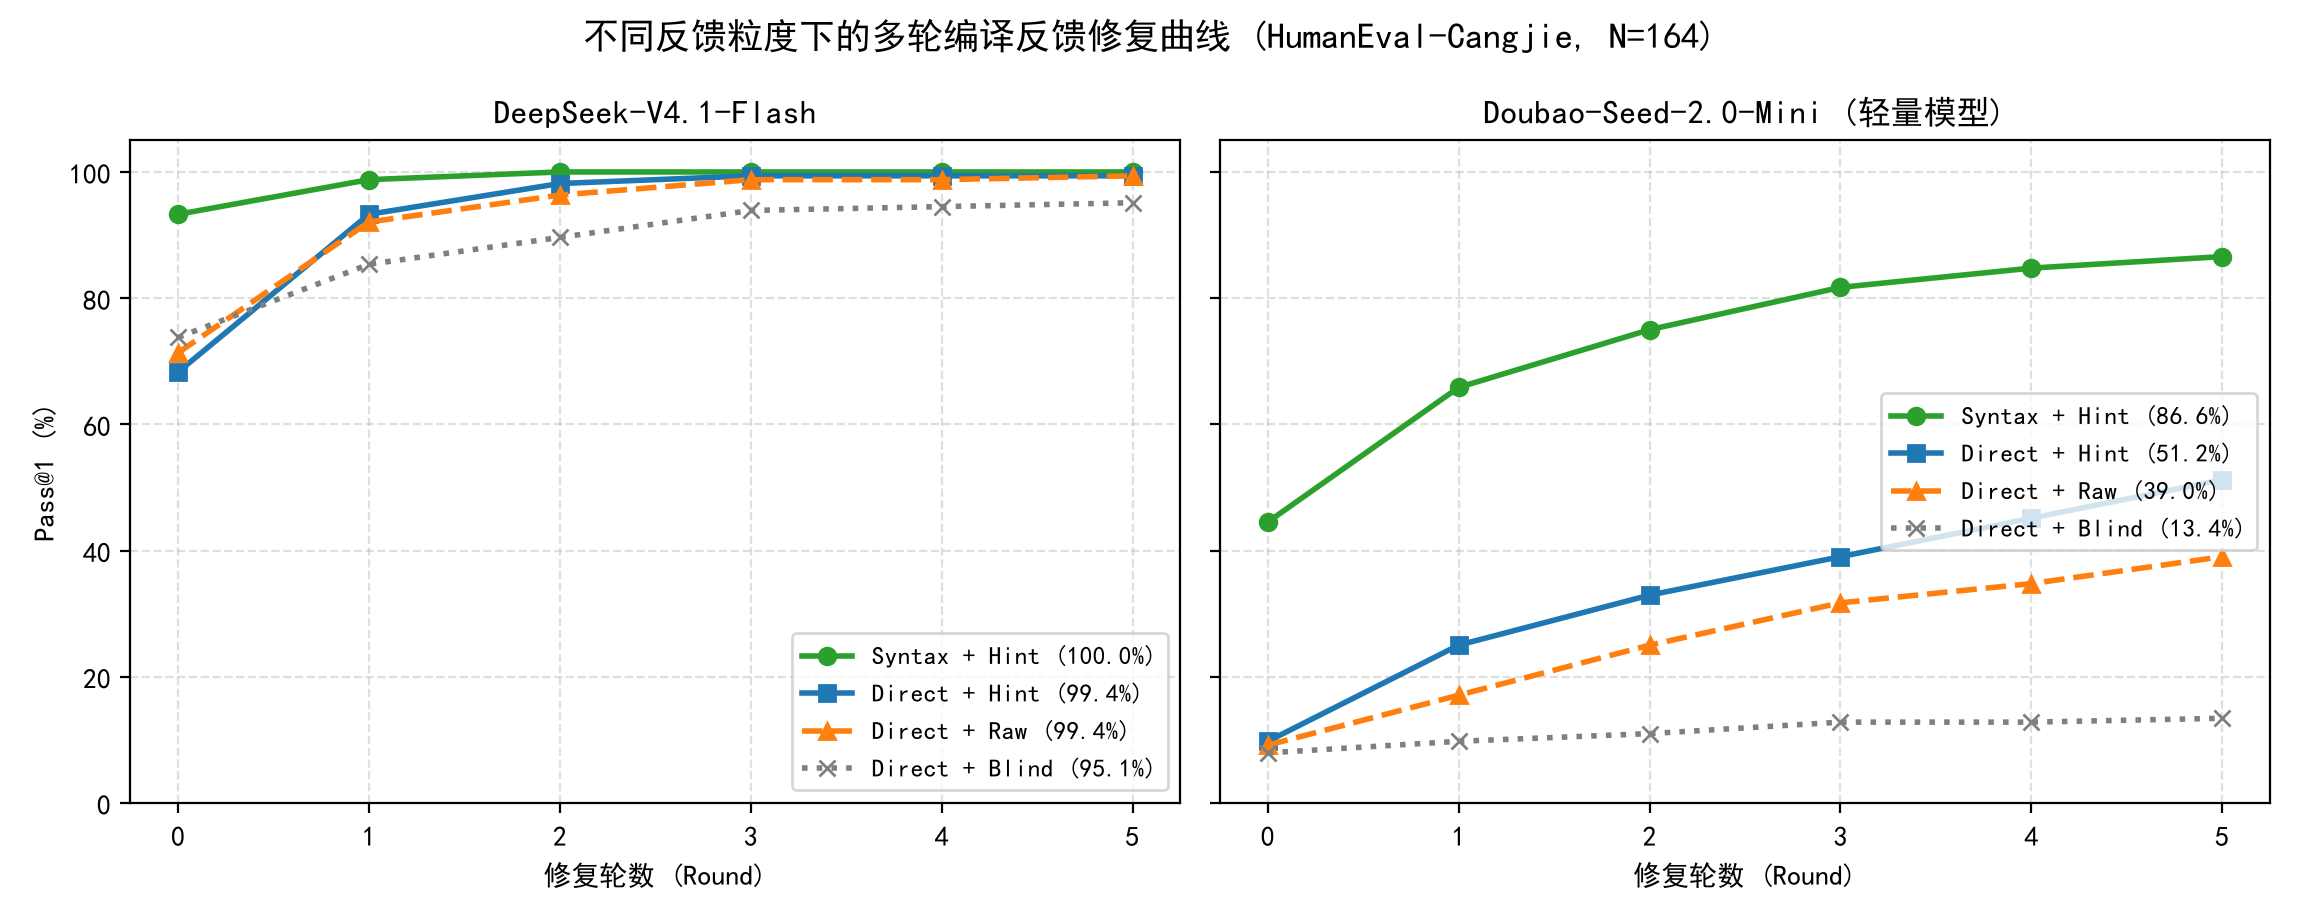
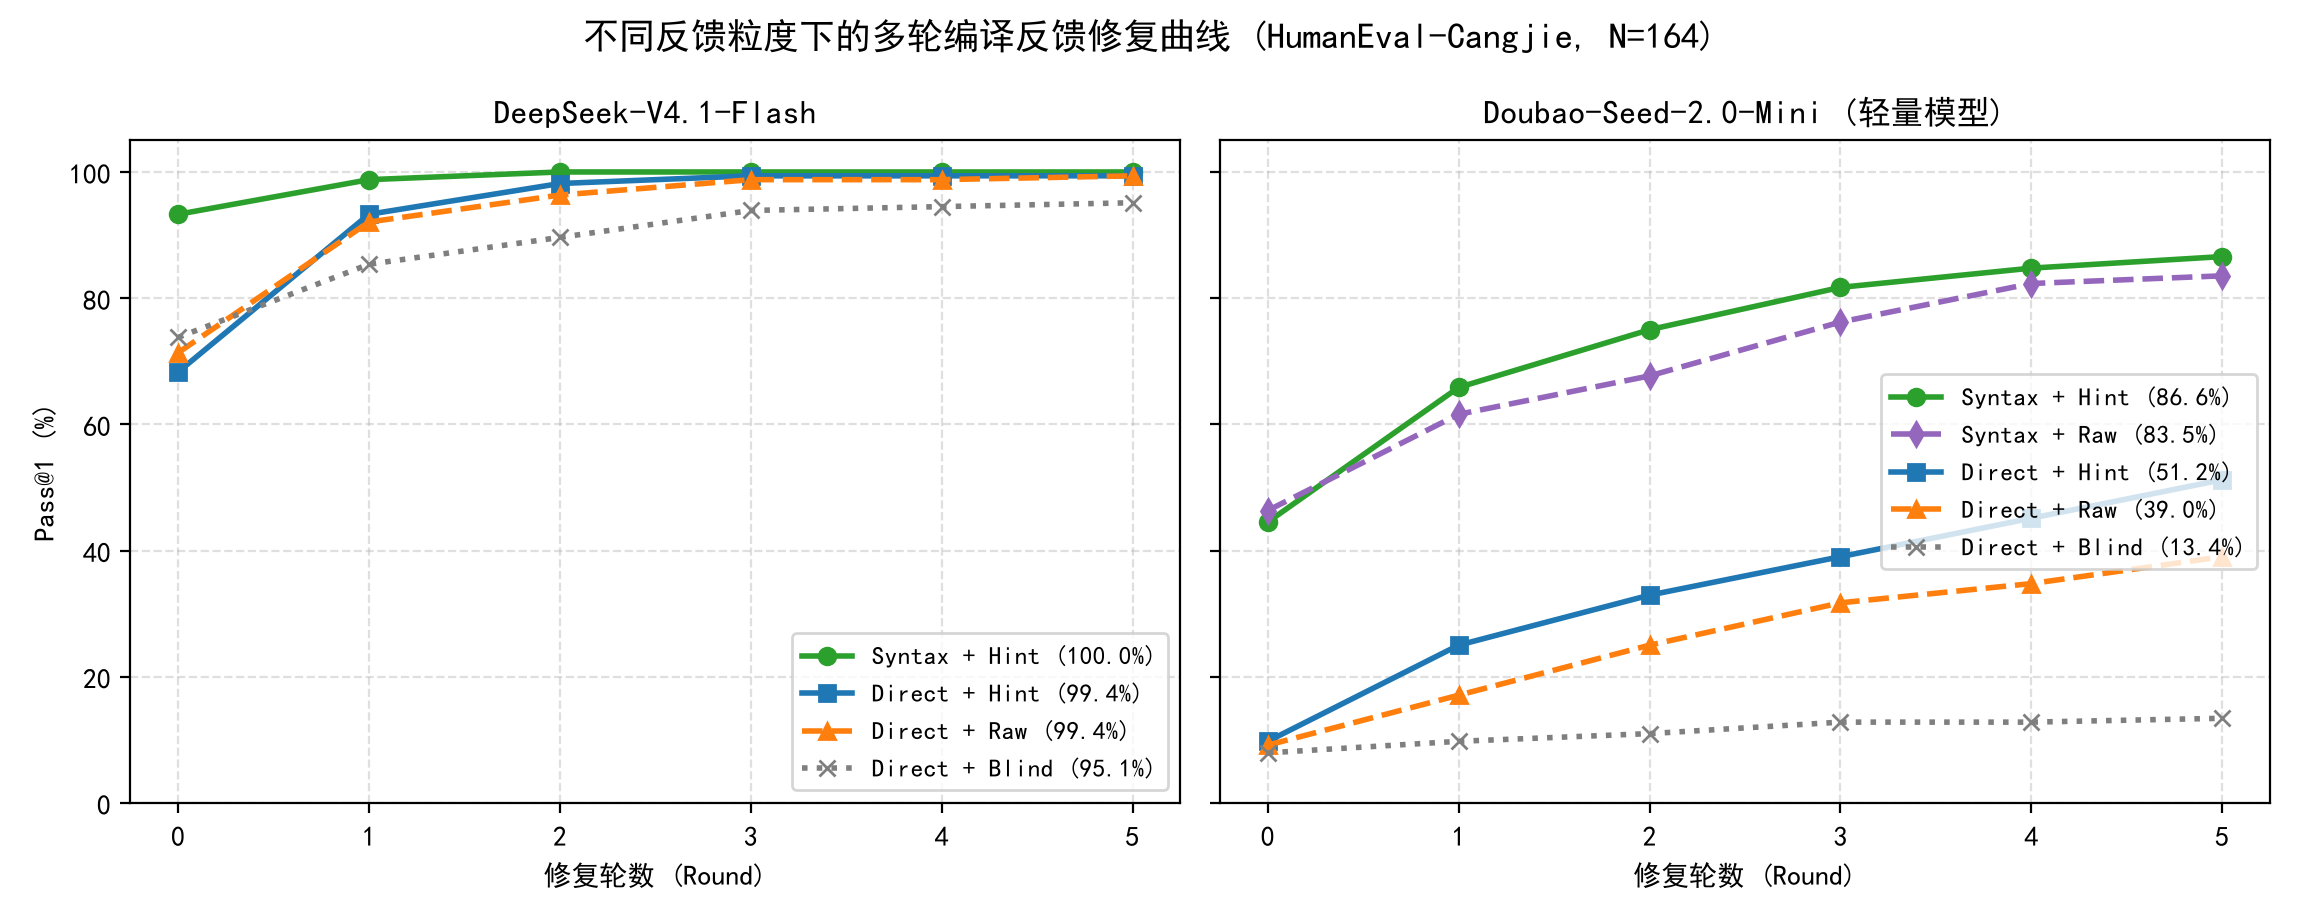
docs: update report and figures with all 11 full-scale experiments

diff --git a/src/plot_figures.py b/src/plot_figures.py
@@ -36,6 +36,7 @@ def plot_curves(summaries: dict[str, dict]):
         ]),
         ("Doubao-Seed-2.0-Mini (轻量模型)", [
             ("doubao_mini_syntax_hint_r5",  "Syntax + Hint",  "-o", "#2ca02c"),
+            ("doubao_mini_syntax_raw_r5",   "Syntax + Raw",   "--d", "#9467bd"),
             ("doubao_mini_direct_hint_r5",  "Direct + Hint",  "-s", "#1f77b4"),
             ("doubao_mini_direct_raw_r5",   "Direct + Raw",   "--^", "#ff7f0e"),
             ("doubao_mini_direct_blind_r5", "Direct + Blind", ":x", "#7f7f7f"),
@@ -69,6 +70,7 @@ def plot_pareto(summaries: dict[str, dict]):
         "ds_v41f_direct_raw_r5":  ("DS-V4.1F Direct+Raw",  "#ff7f0e", "^"),
         "ds_v41f_direct_blind_r5":("DS-V4.1F Direct+Blind","#7f7f7f", "x"),
         "doubao_mini_syntax_hint_r5":  ("Doubao-Mini Syntax+Hint",  "#9467bd", "o"),
+        "doubao_mini_syntax_raw_r5":   ("Doubao-Mini Syntax+Raw",   "#e377c2", "d"),
         "doubao_mini_direct_hint_r5":  ("Doubao-Mini Direct+Hint",  "#17becf", "s"),
         "doubao_mini_direct_raw_r5":   ("Doubao-Mini Direct+Raw",   "#bcbd22", "^"),
         "doubao_mini_direct_blind_r5": ("Doubao-Mini Direct+Blind", "#8c564b", "x"),

diff --git a/docs/实验汇总报告.md b/docs/实验汇总报告.md
@@ -19,7 +19,7 @@
 
 ---
 
-## 二、全部实验总表（9 组全量实验，共 1,396 题次，零异常）
+## 二、全部实验总表（11 组全量实验，共 1,644 题次，零异常）
 
 ### 2.1 HumanEval-Cangjie（N = 164）
 
@@ -29,7 +29,8 @@
 | **DeepSeek-V4.1-Flash** | `direct` | `hint` | 72.56% | 68.29% | **93.29%** | **98.17%** | **99.39%** | 99.39% | **99.39%** | **1.24** | **1,057,357** |
 | **DeepSeek-V4.1-Flash** | `direct` | `raw` | 73.78% | 71.34% | 92.07% | 96.34% | 98.78% | 98.78% | 99.39% | 1.41 | 1,106,042 |
 | **DeepSeek-V4.1-Flash** | `direct` | `blind` | 75.00% | 73.78% | 85.37% | 89.63% | 93.90% | 94.51% | 95.12% | 1.80 | 1,510,174 |
-| **Doubao-Seed-2.0-Mini** | `syntax` | `hint` | 50.61% | 44.51% | 65.85% | 75.00% | 81.71% | **84.76%** | **86.59%** | 1.93 | 2,165,215 |
+| **Doubao-Seed-2.0-Mini** | `syntax` | `hint` | 50.61% | 44.51% | **65.85%** | **75.00%** | **81.71%** | **84.76%** | **86.59%** | **1.93** | **2,165,215** |
+| **Doubao-Seed-2.0-Mini** | `syntax` | `raw` | 50.61% | 46.34% | 61.59% | 67.68% | 76.22% | 82.32% | 83.54% | 2.25 | 2,281,626 |
 | **Doubao-Seed-2.0-Mini** | `direct` | `hint` | 10.37% | 9.76% | **25.00%** | **32.93%** | **39.02%** | **45.12%** | **51.22%** | **2.51** | **1,974,203** |
 | **Doubao-Seed-2.0-Mini** | `direct` | `raw` | 10.37% | 9.15% | 17.07% | 25.00% | 31.71% | 34.76% | 39.02% | 2.59 | 2,075,141 |
 | **Doubao-Seed-2.0-Mini** | `direct` | `blind` | 10.37% | 7.93% | 9.76% | 10.98% | 12.80% | 12.80% | 13.41% | 2.33 | 2,890,037 |
@@ -38,7 +39,8 @@
 
 | 模型 | 初始提示 | 反馈模式 | R0 编译 | R0 | R1 | R2 | R3 | R4 | R5 | 均修轮数 | 总 Token |
 |---|---|---|---:|---:|---:|---:|---:|---:|---:|---:|---:|
-| **DeepSeek-V4.1-Flash** | `direct` | `hint` | 47.62% | 44.05% | **78.57%** | 84.52% | 89.29% | 89.29% | **91.67%** | 1.52 | 1,835,040 |
+| **DeepSeek-V4.1-Flash** | `direct` | `hint` | 47.62% | 44.05% | **78.57%** | **84.52%** | 89.29% | 89.29% | 91.67% | 1.52 | **1,835,040** |
+| **DeepSeek-V4.1-Flash** | `direct` | `raw` | 45.24% | 36.90% | 76.19% | 83.33% | **90.48%** | **92.86%** | **92.86%** | 1.51 | 2,269,932 |
 
 > 对照参考（CangjieBench ESEM 2026）：ClassEval T2C 一次生成最高（GPT-5 + Syntax）为 **23.8%**，Agent 最高（GPT-5 + Codex CLI）为 **32.1%**；HumanEval T2C Agent 最高（GPT-5 + Codex CLI）为 **84.8%**。
 
